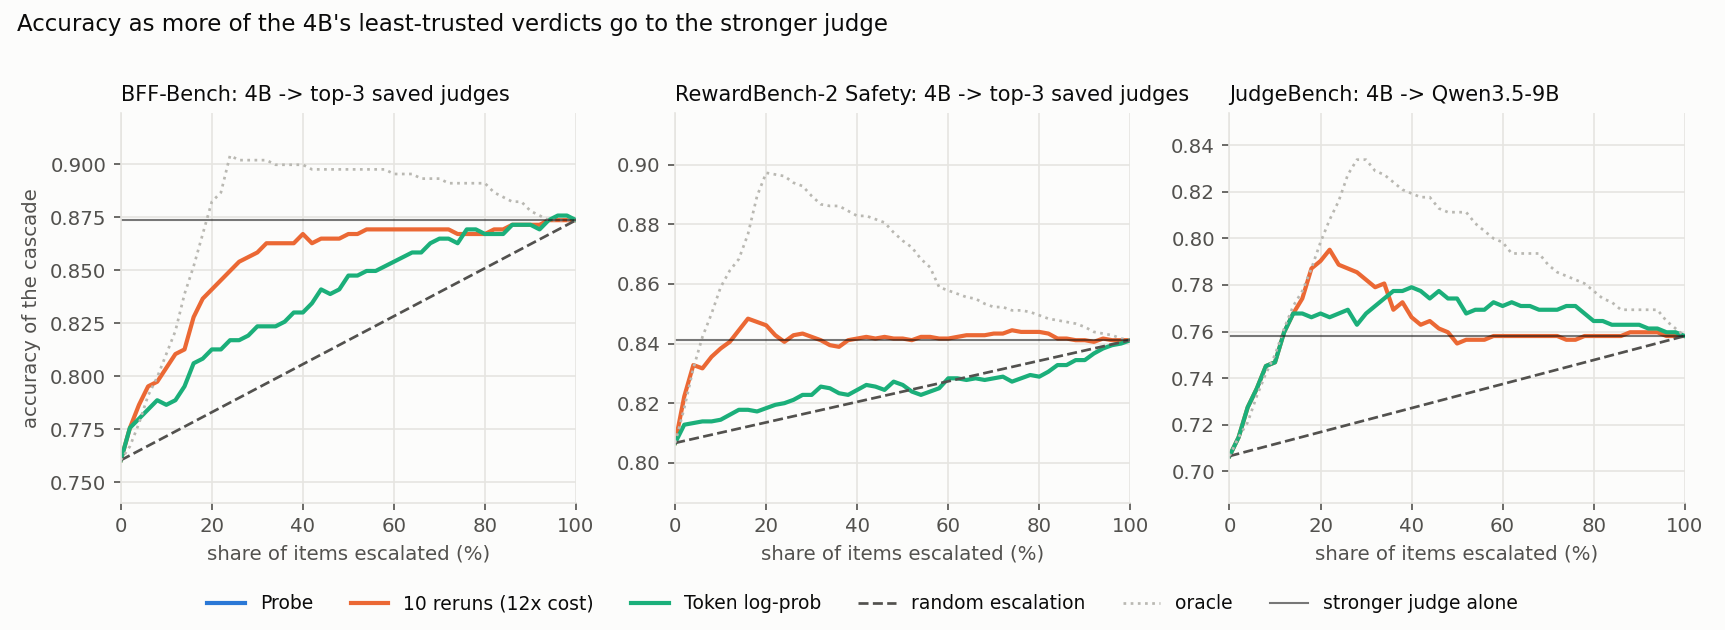
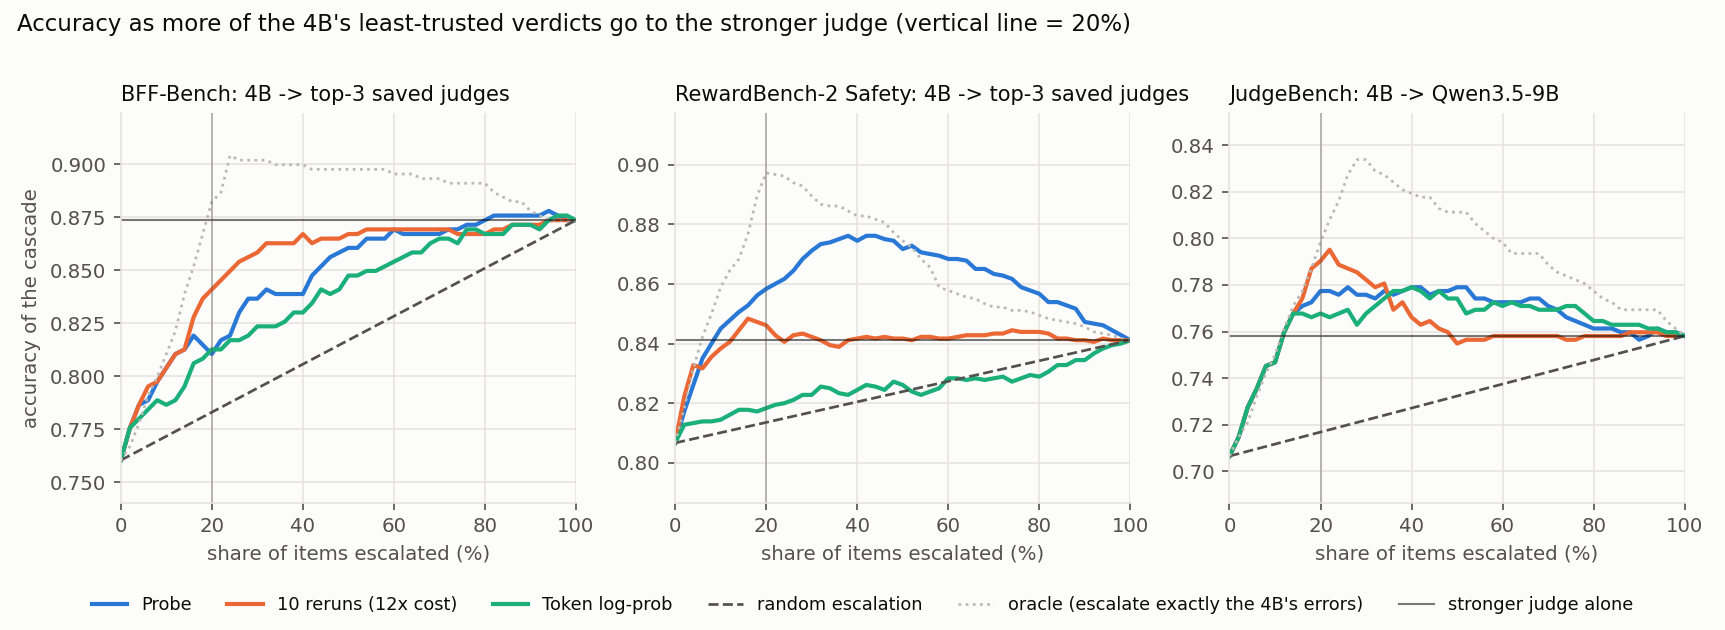
Calibrating LLM Judges README: compare signals by plain cascade accuracy, drop the custom oracle-share metric
The headline is now the accuracy of the cascade when the 20% least-trusted verdicts are escalated, in points above random escalation. The probe is about as good as 10 reruns (+4.9 vs +5.7 and +5.0) at one-twelfth of the generation cost; its edge over the simple single-run signals is about one point. Probe numbers are means over 5 seeds. Plots redrawn.

diff --git a/experiments/calibrating_judges/make_figures.py b/experiments/calibrating_judges/make_figures.py
@@ -1,4 +1,6 @@
-"""Figures for the README, drawn from the cascade_results.csv / cascade_curves.csv written by cascade_eval.py."""
+"""Figures for the README, drawn from the cascade_results.csv / cascade_curves.csv / probe_seeds.csv written by cascade_eval.py.
+The measure is plain: the accuracy of the whole cascade when the 20% of items the signal trusts least are escalated to the stronger judge, in accuracy points above what escalating
+20% of the items at random would give."""
 import os
 import numpy as np, pandas as pd
 import matplotlib; matplotlib.use("Agg"); import matplotlib.pyplot as plt
@@ -9,31 +11,35 @@ BLUE, ORANGE, AQUA, GRAY, INK, INK2, GRID, SURF = "#2a78d6", "#eb6834", "#1baf7a
 plt.rcParams.update({"figure.facecolor": SURF, "axes.facecolor": SURF, "axes.edgecolor": GRID, "axes.labelcolor": INK2, "xtick.color": INK2, "ytick.color": INK2, "text.color": INK,
                      "font.size": 9.5, "axes.spines.top": False, "axes.spines.right": False, "axes.grid": True, "grid.color": GRID, "grid.linewidth": 0.8, "axes.axisbelow": True})
 BN = {"bff": "BFF-Bench", "rb2safety": "RewardBench-2 Safety", "judgebench": "JudgeBench"}
-NAME = {"probe (paper's layer)": "Probe (the judge's activations)", "consistency (N=10)": "10 reruns: agreement with itself",
-        "semantic entropy (N=10)": "10 reruns: semantic entropy", "verbalized": "Stated confidence (0-100)", "cut-off only (free rule)": "Free rule: escalate if the output was cut off",
-        "token log-prob (perplexity)": "Token probabilities: log-prob (perplexity)", "MaxProb (mean over tokens)": "Token probabilities: MaxProb", "energy (log-sum-exp)": "Token probabilities: energy",
-        "token entropy": "Token probabilities: entropy", "verdict-token prob": "Token probabilities: verdict token"}
+PROBE = "probe (paper's layer)"
+NAME = {PROBE: "Probe (the judge's activations)", "consistency (N=10)": "10 reruns: agreement with itself", "semantic entropy (N=10)": "10 reruns: semantic entropy",
+        "verbalized": "Stated confidence (0-100)", "cut-off only (free rule)": "Free rule: escalate if the output was cut off", "token log-prob (perplexity)": "Token probabilities: log-prob (perplexity)",
+        "MaxProb (mean over tokens)": "Token probabilities: MaxProb", "energy (log-sum-exp)": "Token probabilities: energy", "token entropy": "Token probabilities: entropy",
+        "verdict-token prob": "Token probabilities: verdict token", "other judges disagree": "Other judges disagree (needs 2-7 other judges)"}
 
 
 def load():
     rows = []
     for L, d in RUNS:
         r = pd.read_csv(os.path.join(here, d, "cascade_results.csv")); r["L"] = L; rows.append(r)
-    R = pd.concat(rows); R["t"] = R.target.apply(lambda s: "top3" if s.startswith("saved top-3") else ("best" if s.startswith("best saved") else "reasoning"))
-    R = R[((R.bench != "judgebench") & (R.t == "top3")) | ((R.bench == "judgebench") & (R.t == "reasoning"))].copy()
-    R["signal"] = R.signal.str.replace(r"other judges disagree.*", "other judges disagree", regex=True).str.replace(r"probe \(layer \d+, paper\)", "probe (paper's layer)", regex=True)
-    R = R.reset_index(drop=True)                           # (concat leaves duplicate row labels; .loc below needs unique ones)
-    for L, d in RUNS:                                      # the probe is trained once per seed; use the mean over the 5 seeds (the other signals involve no training)
+    R = pd.concat(rows, ignore_index=True); R["t"] = R.target.apply(lambda s: "top3" if s.startswith("saved top-3") else ("best" if s.startswith("best saved") else "reasoning"))
+    R = R[((R.bench != "judgebench") & (R.t == "top3")) | ((R.bench == "judgebench") & (R.t == "reasoning"))].copy().reset_index(drop=True)
+    R["signal"] = R.signal.str.replace(r"other judges disagree.*", "other judges disagree", regex=True).str.replace(r"probe \(layer \d+, paper\)", PROBE, regex=True)
+    for L, d in RUNS:                                      # the probe is trained once per seed: use the mean over seeds when the seed run recorded it (the other signals involve no training)
         S = pd.read_csv(os.path.join(here, d, "probe_seeds.csv"))
-        for i, r in R[(R.L == L) & (R.signal == "probe (paper's layer)")].iterrows():
+        if "acc20_mean" not in S:
+            continue
+        for i, r in R[(R.L == L) & (R.signal == PROBE)].iterrows():
             hit = S[(S.bench == r.bench) & (S.target == r.target[:60])]
             if len(hit):
-                R.loc[i, "share_of_oracle"] = hit["mean"].iloc[0]
-    R = R[R.signal != "probe (validation layer)"]; return R
+                R.loc[i, "acc_at_20"] = hit["acc20_mean"].iloc[0]
+    R = R[R.signal != "probe (validation layer)"].copy()
+    R["rand20"] = R.L_only + 0.2 * (R.H_only - R.L_only); R["pts"] = (R.acc_at_20 - R.rand20) * 100
+    return R
 
 
 def kind(sig):
-    if sig.startswith("probe"):
+    if sig == PROBE:
         return "probe"
     if sig.startswith(("consistency", "semantic", "other judges")):
         return "extra"
@@ -41,52 +47,55 @@ def kind(sig):
 
 
 def fig_overview(R):
-    P = R.pivot_table(index="signal", columns=["L", "bench"], values="share_of_oracle"); mean = P.mean(1).sort_values(); fig, ax = plt.subplots(figsize=(9.6, 6.0))
-    col = {"probe": BLUE, "extra": ORANGE, "cheap": GRAY}; nm = lambda s: NAME.get(s, "Other judges disagree (needs 2-7 other judges)" if s.startswith("other") else s)
+    P = R.pivot_table(index="signal", columns=["L", "bench"], values="pts"); mean = P.mean(1).sort_values(); fig, ax = plt.subplots(figsize=(9.6, 6.0))
+    col = {"probe": BLUE, "extra": ORANGE, "cheap": GRAY}
     for i, s in enumerate(mean.index):
         ax.barh(i, mean[s], color=col[kind(s)], height=0.62, zorder=2)
         ax.scatter(P.loc[s].values, np.full(P.shape[1], i), s=16, color=INK, edgecolor=SURF, linewidth=0.8, zorder=3, alpha=0.85)
-        ax.text(1.04, i, f"{mean[s]:.2f}", va="center", ha="left", fontsize=9.5, color=INK, fontweight="bold" if kind(s) == "probe" else "normal")
-    ax.set_yticks(range(len(mean))); ax.set_yticklabels([nm(s) for s in mean.index]); ax.set_xlim(-0.05, 1.12); ax.set_xticks([0, 0.2, 0.4, 0.6, 0.8, 1.0]); ax.axvline(0, color=INK2, lw=0.8)
-    ax.set_xlabel("share of the achievable gain  (1.0 = perfect)")
-    ax.text(1.04, len(mean) - 0.35, "average", fontsize=8.5, color=INK2, ha="left", va="bottom")
-    ax.grid(axis="y", visible=False); fig.suptitle("Which signal best finds the cheap judge's wrong verdicts?", x=0.01, ha="left", fontsize=12, y=0.985)
+        ax.text(11.3, i, f"+{mean[s]:.1f}", va="center", ha="left", fontsize=9.5, color=INK, fontweight="bold" if kind(s) == "probe" else "normal")
+    ax.set_yticks(range(len(mean))); ax.set_yticklabels([NAME[s] for s in mean.index]); ax.set_xlim(-1, 12.6); ax.axvline(0, color=INK2, lw=0.8)
+    ax.set_xlabel("accuracy points gained over escalating 20% of the items at random")
+    ax.text(11.3, len(mean) - 0.35, "average", fontsize=8.5, color=INK2, ha="left", va="bottom"); ax.grid(axis="y", visible=False)
+    fig.suptitle("Accuracy of the cascade when the 20% least-trusted verdicts are escalated", x=0.01, ha="left", fontsize=12, y=0.985)
     from matplotlib.patches import Patch
     from matplotlib.lines import Line2D
     ax.legend(handles=[Patch(color=BLUE, label="probe on the judge's activations (no extra cost)"), Patch(color=GRAY, label="other signals from the same single run (no extra cost)"),
                        Patch(color=ORANGE, label="signals that need 10 reruns or other judges"),
-                       Line2D([], [], marker="o", color="none", markerfacecolor=INK, markeredgecolor=SURF, markersize=6, label="dot = one judge on one benchmark (9 per row); bar = their average")], loc="upper center", bbox_to_anchor=(0.42, -0.13), ncol=1, fontsize=8.5, frameon=False)
+                       Line2D([], [], marker="o", color="none", markerfacecolor=INK, markeredgecolor=SURF, markersize=6, label="dot = one judge on one benchmark (9 per row); bar = their average")],
+              loc="upper center", bbox_to_anchor=(0.42, -0.13), ncol=1, fontsize=8.5, frameon=False)
     fig.tight_layout(rect=(0, 0, 1, 0.96)); fig.savefig(os.path.join(out, "fig1_signals_overview.png"), dpi=150); plt.close(fig)
 
 
 def fig_by_bench(R):
-    sigs = [("probe (paper's layer)", "Probe", BLUE, "o"), ("token log-prob (perplexity)", "Token log-prob", AQUA, "s"), ("consistency (N=10)", "10 reruns", ORANGE, "^"), ("cut-off only (free rule)", "Free cut-off rule", GRAY, "D")]
+    sigs = [(PROBE, "Probe", BLUE, "o"), ("token log-prob (perplexity)", "Token log-prob", AQUA, "s"), ("consistency (N=10)", "10 reruns", ORANGE, "^"), ("cut-off only (free rule)", "Free cut-off rule", GRAY, "D")]
     judges = [L for L, _ in RUNS]; fig, axs = plt.subplots(1, 3, figsize=(11.5, 4.2), sharey=True)
     for ax, b in zip(axs, ["bff", "rb2safety", "judgebench"]):
         for k, (s, lab, c, m) in enumerate(sigs):
             for j, L in enumerate(judges):
-                v = R[(R.bench == b) & (R.L == L) & (R.signal == s)].share_of_oracle
+                v = R[(R.bench == b) & (R.L == L) & (R.signal == s)].pts
                 if len(v):
                     ax.scatter(j + (k - 1.5) * 0.16, v.iloc[0], s=62, color=c, marker=m, edgecolor=SURF, linewidth=1.2, zorder=3, label=lab if (b == "bff" and j == 0) else None)
         ax.set_xticks(range(3)); ax.set_xticklabels(judges); ax.set_xlim(-0.55, 2.55); ax.set_title(BN[b], loc="left", fontsize=10.5); ax.grid(axis="x", visible=False); ax.axhline(0, color=INK2, lw=0.8)
-    axs[0].set_ylabel("share of the oracle's gain"); axs[0].legend(fontsize=8.5, frameon=False, loc="upper left", ncol=2)
-    fig.suptitle("Where the probe wins: RewardBench-2 with the Qwen judges. Elsewhere a simple signal is close", x=0.01, ha="left", fontsize=11); fig.tight_layout(); fig.savefig(os.path.join(out, "fig2_by_benchmark.png"), dpi=150); plt.close(fig)
+    axs[0].set_ylabel("accuracy points above random escalation (20%)"); axs[0].legend(fontsize=8.5, frameon=False, loc="upper left", ncol=2)
+    fig.suptitle("Where the probe wins: RewardBench-2 with the Qwen judges. On BFF, 10 reruns are ahead", x=0.01, ha="left", fontsize=11); fig.tight_layout()
+    fig.savefig(os.path.join(out, "fig2_by_benchmark.png"), dpi=150); plt.close(fig)
 
 
 def fig_curves():
     C = pd.read_csv(os.path.join(here, "results_cascade_4b_v3", "cascade_curves.csv")); R = pd.read_csv(os.path.join(here, "results_cascade_4b_v3", "cascade_results.csv"))
     pick = {"bff": "saved top-3", "rb2safety": "saved top-3", "judgebench": "Qwen3.5-9B"}; fig, axs = plt.subplots(1, 3, figsize=(11.5, 4.2))
-    lines = [("probe (paper's layer)", "Probe", BLUE, "-"), ("consistency (N=10)", "10 reruns (12x cost)", ORANGE, "-"), ("token log-prob (perplexity)", "Token log-prob", AQUA, "-"),
-             ("random escalation", "random escalation", INK2, "--"), ("oracle", "oracle", "#b9b8b2", ":")]
+    lines = [("probe (layer 16, paper)", "Probe", BLUE, "-"), ("consistency (N=10)", "10 reruns (12x cost)", ORANGE, "-"), ("token log-prob (perplexity)", "Token log-prob", AQUA, "-"),
+             ("random escalation", "random escalation", INK2, "--"), ("oracle", "oracle (escalate exactly the 4B's errors)", "#b9b8b2", ":")]
     for ax, b in zip(axs, pick):
         tgt = [t for t in C[C.bench == b].target.unique() if t.startswith(pick[b])][0]; d = C[(C.bench == b) & (C.target == tgt)]; r = R[(R.bench == b) & (R.target == tgt)].iloc[0]
         for s, lab, c, ls in lines:
             x = d[d.signal == s]; ax.plot(x.rate * 100, x.acc, color=c, ls=ls, lw=2.0 if s.startswith(("probe", "consistency", "token")) else 1.3, label=lab)
-        ax.axhline(r.H_only, color=INK, lw=1.0, alpha=0.55, label="stronger judge alone")
+        ax.axhline(r.H_only, color=INK, lw=1.0, alpha=0.55, label="stronger judge alone"); ax.axvline(20, color=INK2, lw=0.8, alpha=0.4)
         ax.set_title(f"{BN[b]}: 4B -> " + ("top-3 saved judges" if b != "judgebench" else "Qwen3.5-9B"), loc="left", fontsize=10); ax.set_xlabel("share of items escalated (%)"); ax.set_xlim(0, 100)
-        lo = r.L_only - 0.02; ax.set_ylim(lo, max(r.H_only, d.acc.max()) + 0.02)
-    axs[0].set_ylabel("accuracy of the cascade"); h, l = axs[0].get_legend_handles_labels(); fig.legend(h, l, loc="lower center", ncol=6, fontsize=9, frameon=False)
-    fig.suptitle("Accuracy as more of the 4B's least-trusted verdicts go to the stronger judge", x=0.01, ha="left", fontsize=11); fig.tight_layout(rect=(0, 0.07, 1, 0.97)); fig.savefig(os.path.join(out, "fig3_cascade_curves.png"), dpi=150); plt.close(fig)
+        ax.set_ylim(r.L_only - 0.02, max(r.H_only, d.acc.max()) + 0.02)
+    axs[0].set_ylabel("accuracy of the cascade"); h, l = axs[0].get_legend_handles_labels(); fig.legend(h, l, loc="lower center", ncol=6, fontsize=8.5, frameon=False)
+    fig.suptitle("Accuracy as more of the 4B's least-trusted verdicts go to the stronger judge (vertical line = 20%)", x=0.01, ha="left", fontsize=11); fig.tight_layout(rect=(0, 0.07, 1, 0.97))
+    fig.savefig(os.path.join(out, "fig3_cascade_curves.png"), dpi=150); plt.close(fig)
 
 
 if __name__ == "__main__":

diff --git a/experiments/calibrating_judges/cascade_eval.py b/experiments/calibrating_judges/cascade_eval.py
@@ -140,14 +140,15 @@ def main():
     if a.seeds > 1:
         print(f"\n== probe (paper layer) over {a.seeds} seeds: share of the oracle's gain (mean +- sd over seeds)")
         sh = {(b, t): [R[(R.bench == b) & (R.target == t) & R.signal.str.startswith("probe (layer")].share_of_oracle.iloc[0]] for b in BENCH for t in ctx[b]["targets"]}
+        a20 = {(b, t): [R[(R.bench == b) & (R.target == t) & R.signal.str.startswith("probe (layer")].acc_at_20.iloc[0]] for b in BENCH for t in ctx[b]["targets"]}
         for sd in range(1, a.seeds):
             Ps = oof_probe(a.results, a.low, a.layer, a.seed + sd, fixed_only=True)
             for b in BENCH:
                 c = ctx[b]; conf = np.where(c["parsed"], Ps[b][0], -1.0); assert list(Ps[b][2]) == list(c["ids"])
                 for t, ok_h in c["targets"].items():
                     order = np.argsort(c["ok_l"], kind="stable"); orc = np.array([np.where(np.isin(np.arange(len(order)), order[:int(round(k * len(order)))]), ok_h, c["ok_l"]).mean() for k in RATES])
-                    go = gain(orc, c["a_low"], ok_h.mean()); sh[(b, t)].append(gain(curve(conf, c["ok_l"], ok_h), c["a_low"], ok_h.mean()) / go if go > 0 else np.nan)
-        SD = pd.DataFrame([dict(bench=b, target=t[:60], mean=np.nanmean(v), sd=np.nanstd(v), seeds=len(v)) for (b, t), v in sh.items()]); print(SD.round(3).to_string(index=False)); SD.to_csv(os.path.join(a.out, "probe_seeds.csv"), index=False)
+                    a20[(b, t)].append(float(curve(conf, c["ok_l"], ok_h)[10])); go = gain(orc, c["a_low"], ok_h.mean()); sh[(b, t)].append(gain(curve(conf, c["ok_l"], ok_h), c["a_low"], ok_h.mean()) / go if go > 0 else np.nan)
+        SD = pd.DataFrame([dict(bench=b, target=t[:60], mean=np.nanmean(v), sd=np.nanstd(v), seeds=len(v), acc20_mean=np.mean(a20[(b, t)]), acc20_sd=np.std(a20[(b, t)])) for (b, t), v in sh.items()]); print(SD.round(3).to_string(index=False)); SD.to_csv(os.path.join(a.out, "probe_seeds.csv"), index=False)
     print("\n== generated tokens per item needed to obtain each signal"); print(T.round(0).to_string(index=False))
 
 

diff --git a/experiments/calibrating_judges/README.md b/experiments/calibrating_judges/README.md
@@ -52,35 +52,59 @@ Stated confidence comes from a second run of the judge with the confidence reque
 
 **Step 4: the test that matters, the cascade.** For each signal: rank the cheap judge's verdicts from least to most trusted, send the least-trusted share to the stronger judge, and use the stronger judge's verdict for those. Then measure the accuracy of the whole system. Escalation targets: the saved top-3 vote of our 8-judge pool for BFF and RewardBench-2, and the other hosted judge for JudgeBench. Verdicts that never finished (no answer) are escalated first for every signal.
 
-To make results comparable across settings we use two reference points:
-- **Random escalation:** sending the same number of items, picked at random.
-- **The oracle:** sending exactly the items the cheap judge got wrong. This is the best any signal could do.
+We compare the signals at one fixed point: **the accuracy of the whole cascade when the 20% of items a signal trusts least are escalated.** The reference is escalating 20% of the items **at random**. We report **accuracy points gained over random escalation**, so a signal that is no better than random scores 0.
 
-The score of a signal is the **share of the oracle's gain** it captures: 0 means no better than random, 1 means perfect.
+This cascade comparison is our own experiment, not one from the paper. The paper's own metrics (AUROC and calibration error) are reported in the last results section.
 
 ## Results
 
-### Which signal finds the wrong verdicts best?
+### Which signal picks the right items to escalate?
 
 ![Overview of all signals](figures/fig1_signals_overview.png)
 
-- Averaged over 3 judges and 3 benchmarks, the **probe finds more of the cheap judge's mistakes than any other signal** (0.62), including the 10 reruns that cost about 12 times as much (0.57).
-- The margin is small. The simple signals from the same single run reach 0.18 to 0.43, and stated confidence is among the weakest (0.35).
-- Training the probe again with a different seed moves its score by 0.01 to 0.09 (standard deviation, depending on the setting), so the probe's numbers above are means over 5 seeds. Choosing the layer on a validation split instead of using the paper's layer gives the same picture (average 0.63).
+Averaged over the 3 judges and 3 benchmarks, the cheap judge alone gets 0.764, escalating 20% at random gets 0.772, and the stronger judges alone get 0.806. Escalating the 20% each signal trusts least gives:
+
+| Signal | Extra generation | Accuracy points over random |
+|---|---|---|
+| 10 reruns (agreement with itself) | about 12x | **+5.7** |
+| 10 reruns (semantic entropy) | about 12x | +5.0 |
+| **Probe** | none | **+4.9** |
+| Other judges disagree | needs 2 to 7 other judges | +4.7 |
+| Token probabilities (the five variants) | none | +2.8 to +4.1 |
+| Stated confidence | none | +3.7 |
+| Free cut-off rule | none | +3.4 |
+
+- The probe is **about as good as 10 reruns** (+4.9 against +5.0 and +5.7, a gap of under one point), at one-twelfth of the generation cost.
+- Its edge over the other signals from the same single run is small: about 1.5 points over the free cut-off rule and under 1 point over the best token-probability signal.
+- The probe's numbers are means over 5 training seeds (spread at most 0.5 accuracy points per setting). The other signals involve no training. Differences of about a point between the probe and the next signals are small and should not be over-read.
 
 ### Where it works and where it doesn't
 
 ![By benchmark](figures/fig2_by_benchmark.png)
 
-- **RewardBench-2, Qwen judges: the probe wins clearly** (0.88 for the 4B, 0.78 for the 9B). The simple single-run signals get at most 0.09 there, and 10 reruns get 0.30 to 0.43.
-- **BFF: 10 reruns beat the probe for all three judges** (0.62 to 0.67 against 0.30 to 0.49). On gpt-oss the token probabilities also beat it.
-- **JudgeBench: everything is close.** Many answers there were cut off at 4,096 tokens (13% to 26%), and the free cut-off rule alone already captures 0.45 to 0.72 of the gain.
+Accuracy of the cascade with 20% escalated (random escalation and the cheap judge alone in brackets):
+
+| | Probe | 10 reruns | Token log-prob | Free cut-off rule |
+|---|---|---|---|---|
+| RewardBench-2, Qwen3.5-4B (0.814, 0.807) | **0.858** | 0.846 | 0.818 | 0.818 |
+| RewardBench-2, Qwen3.5-9B (0.841, 0.841) | **0.886** | 0.858 | 0.841 | 0.843 |
+| RewardBench-2, gpt-oss-20b (0.839, 0.839) | 0.889 | 0.893 | 0.878 | 0.881 |
+| BFF, Qwen3.5-4B (0.783, 0.760) | 0.815 | **0.841** | 0.813 | 0.795 |
+| BFF, Qwen3.5-9B (0.797, 0.778) | 0.823 | **0.858** | 0.832 | 0.817 |
+| BFF, gpt-oss-20b (0.809, 0.793) | 0.830 | **0.863** | 0.845 | 0.832 |
+| JudgeBench, Qwen3.5-4B (0.717, 0.706) | 0.775 | **0.790** | 0.768 | 0.765 |
+| JudgeBench, Qwen3.5-9B (0.725, 0.758) | 0.792 | 0.787 | **0.798** | 0.781 |
+| JudgeBench, gpt-oss-20b (0.625, 0.592) | 0.726 | 0.726 | 0.726 | 0.726 |
+
+- **RewardBench-2 with the Qwen judges: the probe is ahead.** It beats 10 reruns by 1 to 3 points, and the simple signals barely beat random there.
+- **BFF: 10 reruns are ahead for all three judges.**
+- **JudgeBench: everything is close.** 13% to 26% of the answers there were cut off at 4,096 tokens, and the free cut-off rule alone already captures most of the gain. For gpt-oss the signals from the main run end up identical, because the cheap judge's cut-off answers are escalated first and nothing is left to rank.
 
 ### What it means for accuracy
 
 ![Cascade curves](figures/fig3_cascade_curves.png)
 
-Qwen3.5-4B as the cheap judge, sending its least-trusted verdicts to a stronger judge:
+Qwen3.5-4B as the cheap judge, sending its least-trusted verdicts to a stronger judge (one probe training run, as drawn). The dotted line is the best possible: escalating exactly the 4B's mistakes first.
 
 | Benchmark | 4B alone | Stronger judge alone | Random 20% escalated | **Probe, 20% escalated** | 10 reruns, 20% escalated |
 |---|---|---|---|---|---|
@@ -90,7 +114,6 @@ Qwen3.5-4B as the cheap judge, sending its least-trusted verdicts to a stronger 
 
 - On RewardBench-2 and JudgeBench, the cascade beats the stronger judge alone while the cheap judge handles 80% of the items.
 - On BFF it does not: it needs about half the items escalated to approach the stronger judge.
-- Over all 9 settings (one probe training run each), escalating by the probe gains about 3.4 accuracy points over random escalation. The free cut-off rule gains 2.0, and 10 reruns 3.2.
 
 **Cost of getting the signal** (generated tokens per item, Qwen3.5-4B): the probe needs one run (1,196 tokens on BFF, 425 on RewardBench-2, 1,860 on JudgeBench). 10 reruns need about 12 times that (14,441, 5,110 and 22,219).
 
@@ -113,7 +136,7 @@ The paper's main claim is that the probe's number is well calibrated, meaning th
 
 ## Conclusion
 
-For a judge we can run ourselves, a probe on its activations is a **cheap and usually slightly better trigger for escalation** than the alternatives that cost the same, and about as good as rerunning the judge 10 times on average. The clear win is RewardBench-2 with the Qwen judges. Elsewhere, a simple signal or the reruns do as well or better, and the overall gain is a few accuracy points.
+For a judge we can run ourselves, a probe on its activations is a **cheap trigger for escalation that is about as good as rerunning the judge 10 times** (+4.9 against +5.7 accuracy points over random escalation), at one-twelfth of the generation cost. Its edge over the other cheap signals is small, about one point. The clear win is RewardBench-2 with the Qwen judges. On BFF the reruns are better, and on JudgeBench everything is close. The overall gain is a few accuracy points.
 
 ## Limits
 
